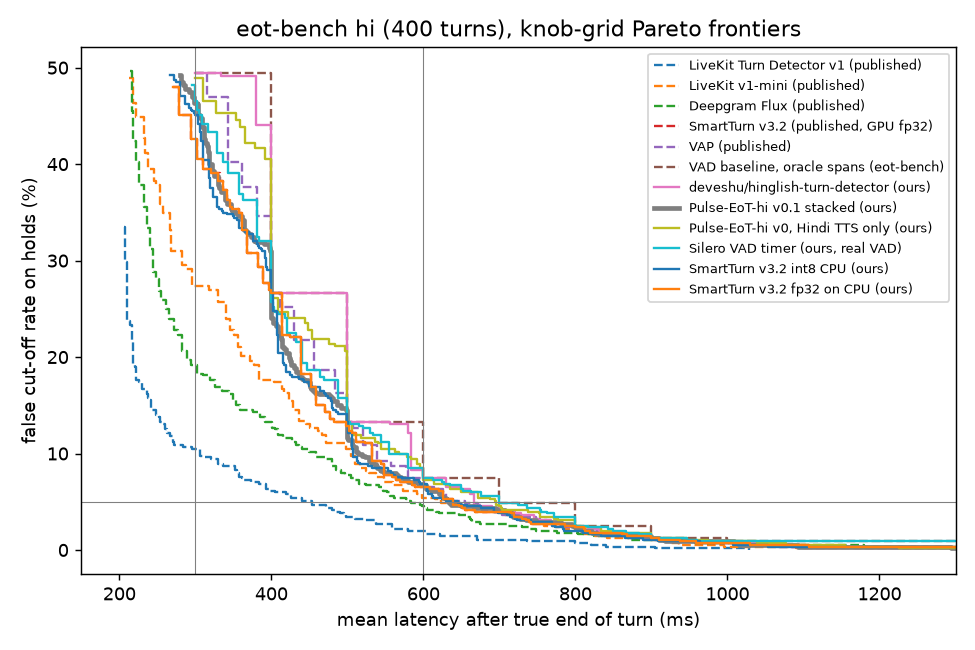
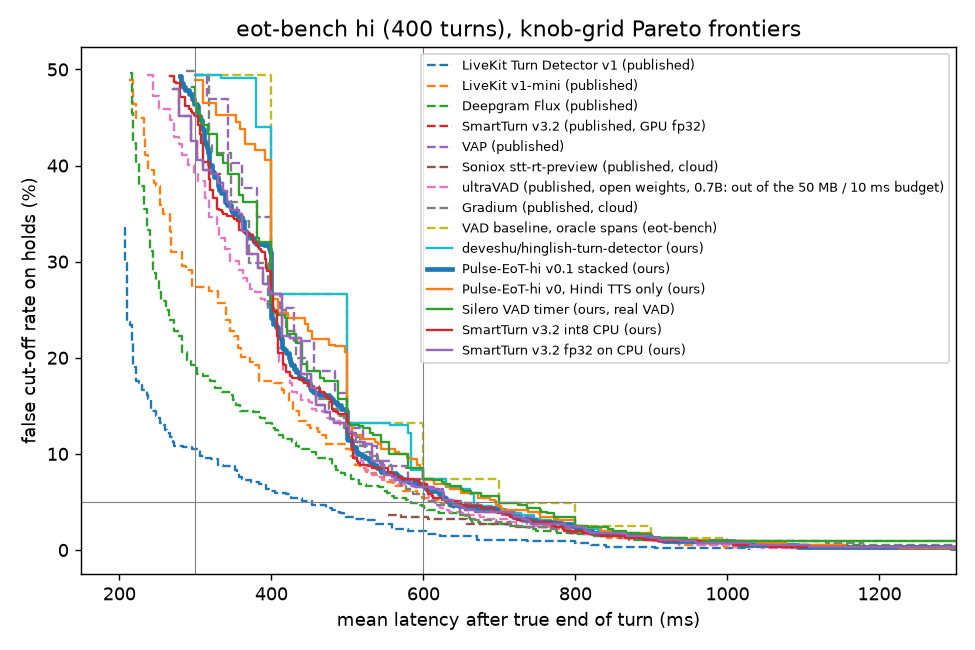
Fix B2, M6, M2 (report): relabel the arbiter as a TTS speech-vs-noise classifier, slice table at common operating points with CIs on dev-test, efficiency mean/p99 and emulation note

diff --git a/eval/report.py b/eval/report.py
@@ -118,12 +118,27 @@ def pareto_plot(rows: list[dict], path: Path, title: str) -> None:
     plt.close(fig)
 
 
+def wilson(k: int, n: int, z: float = 1.96) -> tuple[float, float]:
+    if n == 0:
+        return (float("nan"), float("nan"))
+    p = k / n
+    d = 1 + z * z / n
+    c = (p + z * z / (2 * n)) / d
+    h = z * np.sqrt(p * (1 - p) / n + z * z / (4 * n * n)) / d
+    return (max(0.0, c - h), min(1.0, c + h))
+
+
 def slice_table(dirs: list[str]) -> str:
-    """FCR on filler/connective-preceded and digit-preceded holds at each system's Lat@5% knobs.
+    """Hold cut-off rate by the word class before the pause, on the dev-test half only, with every
+    system at the same two kinds of operating point: (a) its own Lat@5% knobs and (b) its own
+    best knobs under a 600 ms mean-latency budget (the FCR@600 point). 95% Wilson intervals.
 
     Slices use the reference word before the pause (labels only, never model input).
     """
-    turns = {t.id: t for t in load_eot_bench_hi()}
+    from eval.split import ids_of
+
+    dev = ids_of("devtest")
+    turns = {t.id: t for t in load_eot_bench_hi(half="devtest")}
     keys = []
     for t in turns.values():
         for s in t.spans:
@@ -134,19 +149,32 @@ def slice_table(dirs: list[str]) -> str:
             c = token_class(toks[-1]) if toks else "NONE"
             keys.append({"id": t.id, "span_index": s.index, "slice": {"HOLD": "filler/connective", "DIGIT": "digit/number"}.get(c, "other")})
     sl = pd.DataFrame(keys)
-    lines = ["| System | knobs (th, delay, timeout) | all holds | filler/connective holds (FFCR) | digit holds |", "|---|---|---|---|---|"]
+    lines = ["| System | operating point (th, delay, timeout) | all holds | filler/connective holds | digit holds |", "|---|---|---|---|---|"]
     for d in dirs:
         p = RES / "eot_bench_hi/clean" / d
-        if not (p / "summary.json").exists():
+        if not (p / "predictions.parquet").exists():
             continue
         s = json.loads((p / "summary.json").read_text())
-        frozen = s.get("frozen_knobs") or s["operating_points"]["lat_at_5pct"]
-        src = "dev-frozen" if s.get("frozen_knobs") else "test Lat@5%"
         pred = pd.read_parquet(p / "predictions.parquet")
-        o = metrics.apply_knobs(pred, frozen, s.get("score_point")).merge(sl, on=["id", "span_index"])
-        g = o.groupby("slice")["cut"].agg(["mean", "size"])
-        cell = lambda k: f"{pct(g.loc[k, 'mean'])} (n={g.loc[k, 'size']})" if k in g.index else "-"
-        lines.append(f"| {name_of(d)} | {frozen['threshold']:.2f}, {frozen['action_delay']:.1f}, {frozen['timeout']:.1f} ({src}) | {pct(o['cut'].mean())} | {cell('filler/connective')} | {cell('digit/number')} |")
+        pred = pred[pred.id.astype(str).isin(dev)]
+        _, sd = metrics.summarise(pred, s.get("score_point"))
+        for label, key in (("own Lat@5%", "lat_at_5pct"), ("own best at <= 600 ms", "fcr_at_600ms")):
+            k = sd["operating_points"][key]
+            if k is None:
+                continue
+            o = metrics.apply_knobs(pred, k, s.get("score_point")).merge(sl, on=["id", "span_index"])
+            g = o.groupby("slice")["cut"].agg(["sum", "size"])
+
+            def cell(sub: pd.Series | None) -> str:
+                if sub is None:
+                    return "-"
+                kk, nn = int(sub["sum"]), int(sub["size"])
+                lo, hi = wilson(kk, nn)
+                return f"{pct(kk / nn)} [{pct(lo)}, {pct(hi)}] (n={nn})"
+
+            allc = pd.Series({"sum": o["cut"].sum(), "size": len(o)})
+            lines.append(f"| {name_of(d)} | {label}: {k['threshold']:.2f}, {k['action_delay']:.1f}, {k['timeout']:.1f} | {cell(allc)} | "
+                         f"{cell(g.loc['filler/connective'] if 'filler/connective' in g.index else None)} | {cell(g.loc['digit/number'] if 'digit/number' in g.index else None)} |")
     return "\n".join(lines)
 
 
@@ -193,7 +221,8 @@ def main() -> None:
     RES.mkdir(exist_ok=True)
     main_rows = [r for r in clean if "__" not in r["dir"] or r["dir"] == "pulse_eot_hi__full"]
     pareto_plot(pub + main_rows, RES / "pareto_eot_bench_hi.png", "eot-bench hi (400 turns), knob-grid Pareto frontiers")
-    md = ["# Results (generated by `python -m eval.report`)", "", "## eot-bench `hi` (400 turns, 16 kHz), eot-bench knob sweep", "",
+    md = ["# Results (generated by `python -m eval.report`)", "", "## eot-bench `hi` (all 400 turns, 16 kHz), eot-bench knob sweep: historical", "",
+          "These 400 turns informed one design iteration (v0 to v0.1) and every variant below was scored on them. Since 2026-10-20 iteration uses the 200-turn dev-test half only and the other 200 are sealed (eval/split.py). Lat@5% and FCR@300 are best-on-test operating points by eot-bench's definition; only dev-frozen knobs are deployable.", "",
           "Rows marked *published* are recomputed by our metrics code from LiveKit's committed prediction files (identical to their report). Rows marked *ours* were run in this repo through the streaming harness on CPU.", "", table(pub + clean), "", "![pareto](pareto_eot_bench_hi.png)", ""]
     for cond in ("mulaw8k", "snr10", "snr5"):
         rows = our_rows("eot_bench_hi", cond)
@@ -202,22 +231,32 @@ def main() -> None:
     dev = our_rows("dev_hi", "clean")
     if dev:
         md += ["## Dev split (Smart Turn v3.2 *test* Hindi clips as single-pause episodes; used for model selection and knob freezing)", "", table(dev), ""]
-    md += ["## Hold slices on eot-bench `hi`", "", slice_table([r["dir"] for r in clean]), ""]
+    md += ["## Hold slices, eot-bench `hi` dev-test half (200 turns)", "", "Every system at its own Lat@5% knobs and at its own best knobs within a 600 ms mean-latency budget, chosen on the same 200 turns. Brackets: 95% Wilson interval. The slices are small, so most differences are inside the intervals.", "",
+           slice_table([r["dir"] for r in clean if "__" not in r["dir"] or r["dir"] == "pulse_eot_hi__full"]), ""]
     dep = RES / "eot_bench_hi/clean/deployed.csv"
     if dep.exists():
         md += ["## Deployed (VAD-timed) policy on eot-bench `hi`", "", pd.read_csv(dep).to_markdown(index=False, floatfmt=".3f"), ""]
     arb = RES / "arbiter/summary.json"
     if arb.exists():
         a = json.loads(arb.read_text())["test"]
-        md += ["## Barge-in arbiter (proxy overlap set, see arbiter/data.py)", "", f"FBR {pct(a['FBR'])}, MBR {pct(a['MBR'])}, arbiter score {a['arbiter_score']:.3f}, reaction p50/p90 {a['reaction_p50_ms']}/{a['reaction_p90_ms']} ms, n={a['n']}", "", "Confusion (rows true, columns predicted):", "", pd.DataFrame(a["confusion"]).fillna(0).astype(int).to_markdown(), ""]
+        cm = pd.DataFrame(a["confusion"]).fillna(0).astype(int)
+        bc = int(cm.loc["backchannel", "backchannel"]) if "backchannel" in cm.index else 0
+        md += ["## Speech-onset vs noise classifier on TTS clips (the arbiter prototype; NOT a barge-in result)", "",
+               f"Trained and tested on single-speaker Chirp3 TTS Hindi clips plus MUSAN noise (arbiter/data.py). Test set: {a['n']}. "
+               f"Backchannel recall {bc}/{a['n'].get('backchannel', 0)}. \"barge-in\" is any IPU longer than 1.2 s and the model has no lexical input, "
+               "so it cannot separate \"haan\" from \"nahi ruko\". Decisions happen only at 300 or 600 ms by construction. No summary score is reported "
+               "because the class mix (91% barge-in) makes it meaningless.", "", "Confusion (rows true, columns predicted):", "", cm.to_markdown(), ""]
     for f in sorted((RES / "efficiency").glob("*.json")) if (RES / "efficiency").exists() else []:
         e = json.loads(f.read_text())
-        md += [f"- Efficiency `{e['detector']}`: p50/p95/p99 {e['ms_per_hop_p50']:.2f}/{e['ms_per_hop_p95']:.2f}/{e['ms_per_hop_p99']:.2f} ms per hop (1 thread), {e['calls_per_core']:.0f} calls per core, model {e['model_mb']:.1f} MB, {e['rss_mb_for_calls']:.0f} MB RSS for {e['concurrent_calls_held']} call states"]
+        md += [f"- Efficiency `{e['detector']}` (x86 Python emulated on {e.get('cpu', '?')}): mean/p50/p95/p99 {e['ms_per_hop_mean']:.2f}/{e['ms_per_hop_p50']:.2f}/{e['ms_per_hop_p95']:.2f}/{e['ms_per_hop_p99']:.2f} ms per hop (1 thread), {e['calls_per_core']:.0f} calls per core, model {e['model_mb']:.1f} MB, process RSS {e['rss_mb_process']:.0f} MB plus {e['rss_mb_for_calls']:.0f} MB for {e['concurrent_calls_held']} call states"]
     if (RES / "eot_bench_hi/clean/pulse_eot_hi/summary.json").exists():
         header = "# 20 failure cases, Pulse-EoT-hi v0.1 on eot-bench hi\n\n"
         (RES / "failures.md").write_text(header + failure_gallery() + "\n", encoding="utf-8")
         md += ["", "Failure gallery: [failures.md](failures.md)"]
     ours = next((r for r in clean if r["dir"] == "pulse_eot_hi"), None)
+    devmd = RES / "eot_bench_hi_devtest/rescored.md"
+    if devmd.exists():
+        md += ["", devmd.read_text(encoding="utf-8").replace("# eot-bench", "## eot-bench", 1)]
     md += ["", "## Points matrix (only rows measurable without Bharat-Turn-8k)", "", "```", json.dumps(points(ours), indent=1), "```", ""]
     (RES / "report.md").write_text("\n".join(md), encoding="utf-8")
     print("\n".join(md))

diff --git a/results/report.md b/results/report.md
@@ -1,13 +1,18 @@
 # Results (generated by `python -m eval.report`)
 
-## eot-bench `hi` (400 turns, 16 kHz), eot-bench knob sweep
+## eot-bench `hi` (all 400 turns, 16 kHz), eot-bench knob sweep: historical
+
+These 400 turns informed one design iteration (v0 to v0.1) and every variant below was scored on them. Since 2026-10-20 iteration uses the 200-turn dev-test half only and the other 200 are sealed (eval/split.py). Lat@5% and FCR@300 are best-on-test operating points by eot-bench's definition; only dev-frozen knobs are deployable.
 
 Rows marked *published* are recomputed by our metrics code from LiveKit's committed prediction files (identical to their report). Rows marked *ours* were run in this repo through the streaming harness on CPU.
 
 | System | FCR@300 | FCR@600 | Lat@5% | Lat@10% | Detect@5% | AUC |
 |---|---|---|---|---|---|---|
 | LiveKit Turn Detector v1 (published) | 10.5% | 2.0% | 454 ms | 306 ms | 68.2% | 0.944 |
+| Soniox stt-rt-preview (published, cloud) | - | 3.4% | 553 ms | 553 ms | 70.5% | 0.840 |
 | Deepgram Flux (published) | 19.2% | 4.5% | 583 ms | 459 ms | 87.5% | 0.950 |
+| ultraVAD (published, open weights, 0.7B: out of the 50 MB / 10 ms budget) | 39.1% | 6.5% | 616 ms | 509 ms | 98.2% | 0.770 |
+| Gradium (published, cloud) | 49.5% | 5.8% | 618 ms | 530 ms | 91.2% | 0.887 |
 | LiveKit v1-mini (published) | 27.4% | 5.4% | 624 ms | 505 ms | 75.2% | 0.842 |
 | Pulse-EoT-hi v0.1 stacked (ours) | 46.4% | 6.7% | 634 ms | 514 ms | 93.5% | 0.797 |
 | SmartTurn v3.2 (published, GPU fp32) | 42.6% | 6.5% | 639 ms | 532 ms | 90.2% | 0.719 |
@@ -53,24 +58,24 @@ Rows marked *published* are recomputed by our metrics code from LiveKit's commit
 | Pulse-EoT-hi v0.1 stacked (ours) | 49.5% | 7.4% | 661 ms | 551 ms | 88.2% | 0.797 |
 | Silero VAD timer (ours, real VAD) | 50.7% | 9.6% | 702 ms | 594 ms | 99.8% | 0.932 |
 
-## Hold slices on eot-bench `hi`
+## Hold slices, eot-bench `hi` dev-test half (200 turns)
 
-| System | knobs (th, delay, timeout) | all holds | filler/connective holds (FFCR) | digit holds |
+Every system at its own Lat@5% knobs and at its own best knobs within a 600 ms mean-latency budget, chosen on the same 200 turns. Brackets: 95% Wilson interval. The slices are small, so most differences are inside the intervals.
+
+| System | operating point (th, delay, timeout) | all holds | filler/connective holds | digit holds |
 |---|---|---|---|---|
-| deveshu/hinglish-turn-detector (ours) | 0.01, 0.6, 1.0 (test Lat@5%) | 4.5% | 3.2% (n=31) | 1.3% (n=78) |
-| Pulse-EoT-hi v0.1 stacked (ours) | 0.85, 0.4, 3.5 (dev-frozen) | 8.7% | 0.0% (n=31) | 1.3% (n=78) |
-| Pulse-EoT-hi v0 [audio_only] | 0.92, 0.8, 2.0 (dev-frozen) | 0.5% | 0.0% (n=31) | 1.3% (n=78) |
-| Pulse-EoT-hi v0, Hindi TTS only (ours) | 0.82, 0.4, 3.5 (dev-frozen) | 6.5% | 0.0% (n=31) | 0.0% (n=78) |
-| Pulse-EoT-hi v0 [no_DIGIT] | 0.87, 0.4, 2.5 (dev-frozen) | 5.3% | 0.0% (n=31) | 0.0% (n=78) |
-| Pulse-EoT-hi v0 [no_HOLD] | 0.85, 0.4, 2.5 (dev-frozen) | 5.4% | 0.0% (n=31) | 0.0% (n=78) |
-| Pulse-EoT-hi v0 [no_lexhead] | 0.89, 0.4, 2.5 (dev-frozen) | 5.4% | 0.0% (n=31) | 0.0% (n=78) |
-| Pulse-EoT-hi v0 [no_TAG] | 0.86, 0.4, 2.5 (dev-frozen) | 5.4% | 0.0% (n=31) | 0.0% (n=78) |
-| Pulse-EoT-hi v0 [no_VERB] | 0.94, 0.2, 2.0 (dev-frozen) | 5.8% | 0.0% (n=31) | 1.3% (n=78) |
-| Pulse-EoT-hi v0.1 [smart_turn_only] | 0.89, 0.3, 3.0 (dev-frozen) | 14.5% | 9.7% (n=31) | 3.8% (n=78) |
-| Pulse-EoT-hi v0.1 [stacked_audio_only] | 0.94, 0.2, 2.5 (dev-frozen) | 15.2% | 12.9% (n=31) | 3.8% (n=78) |
-| Silero VAD timer (ours, real VAD) | 0.10, 0.7, 1.0 (test Lat@5%) | 4.9% | 6.5% (n=31) | 2.6% (n=78) |
-| SmartTurn v3.2 int8 CPU (ours) | 0.33, 0.6, 1.0 (test Lat@5%) | 4.9% | 3.2% (n=31) | 1.3% (n=78) |
-| SmartTurn v3.2 fp32 on CPU (ours) | 0.04, 0.6, 1.0 (test Lat@5%) | 4.7% | 3.2% (n=31) | 1.3% (n=78) |
+| deveshu/hinglish-turn-detector (ours) | own Lat@5%: 0.03, 0.5, 1.0 | 4.8% [2.8%, 8.3%] (n=248) | 0.0% [0.0%, 16.1%] (n=20) | 3.1% [0.6%, 15.7%] (n=32) |
+| deveshu/hinglish-turn-detector (ours) | own best at <= 600 ms: 0.00, 0.6, 1.0 | 6.5% [4.0%, 10.2%] (n=248) | 5.0% [0.9%, 23.6%] (n=20) | 3.1% [0.6%, 15.7%] (n=32) |
+| Pulse-EoT-hi v0.1 stacked (ours) | own Lat@5%: 0.18, 0.6, 1.5 | 4.8% [2.8%, 8.3%] (n=248) | 0.0% [0.0%, 16.1%] (n=20) | 3.1% [0.6%, 15.7%] (n=32) |
+| Pulse-EoT-hi v0.1 stacked (ours) | own best at <= 600 ms: 0.63, 0.5, 1.0 | 5.2% [3.1%, 8.8%] (n=248) | 0.0% [0.0%, 16.1%] (n=20) | 3.1% [0.6%, 15.7%] (n=32) |
+| Pulse-EoT-hi v0, Hindi TTS only (ours) | own Lat@5%: 0.08, 0.6, 1.0 | 4.8% [2.8%, 8.3%] (n=248) | 0.0% [0.0%, 16.1%] (n=20) | 3.1% [0.6%, 15.7%] (n=32) |
+| Pulse-EoT-hi v0, Hindi TTS only (ours) | own best at <= 600 ms: 0.01, 0.6, 1.0 | 6.0% [3.7%, 9.7%] (n=248) | 0.0% [0.0%, 16.1%] (n=20) | 3.1% [0.6%, 15.7%] (n=32) |
+| Silero VAD timer (ours, real VAD) | own Lat@5%: 0.35, 0.2, 1.0 | 4.8% [2.8%, 8.3%] (n=248) | 5.0% [0.9%, 23.6%] (n=20) | 3.1% [0.6%, 15.7%] (n=32) |
+| Silero VAD timer (ours, real VAD) | own best at <= 600 ms: 0.10, 0.6, 1.0 | 6.5% [4.0%, 10.2%] (n=248) | 5.0% [0.9%, 23.6%] (n=20) | 3.1% [0.6%, 15.7%] (n=32) |
+| SmartTurn v3.2 int8 CPU (ours) | own Lat@5%: 0.77, 0.5, 1.0 | 4.8% [2.8%, 8.3%] (n=248) | 0.0% [0.0%, 16.1%] (n=20) | 3.1% [0.6%, 15.7%] (n=32) |
+| SmartTurn v3.2 int8 CPU (ours) | own best at <= 600 ms: 0.70, 0.5, 1.0 | 5.2% [3.1%, 8.8%] (n=248) | 0.0% [0.0%, 16.1%] (n=20) | 3.1% [0.6%, 15.7%] (n=32) |
+| SmartTurn v3.2 fp32 on CPU (ours) | own Lat@5%: 0.02, 0.6, 1.0 | 4.4% [2.5%, 7.8%] (n=248) | 0.0% [0.0%, 16.1%] (n=20) | 3.1% [0.6%, 15.7%] (n=32) |
+| SmartTurn v3.2 fp32 on CPU (ours) | own best at <= 600 ms: 0.11, 0.5, 1.0 | 5.2% [3.1%, 8.8%] (n=248) | 0.0% [0.0%, 16.1%] (n=20) | 3.1% [0.6%, 15.7%] (n=32) |
 
 ## Deployed (VAD-timed) policy on eot-bench `hi`
 
@@ -89,9 +94,9 @@ Rows marked *published* are recomputed by our metrics code from LiveKit's commit
 | Pulse-EoT-hi v0.1, dev-frozen knobs                           |       0.850 |          0.400 |     3.500 | 0.103 |          1.107 |         3.500 |                    0.043 |
 | Pulse-EoT-hi v0.1, test Lat@5% knobs (oracle, reference only) |       0.410 |          0.600 |     1.000 | 0.047 |          0.625 |         0.810 |                    0.065 |
 
-## Barge-in arbiter (proxy overlap set, see arbiter/data.py)
+## Speech-onset vs noise classifier on TTS clips (the arbiter prototype; NOT a barge-in result)
 
-FBR 18.1%, MBR 0.8%, arbiter score 0.905, reaction p50/p90 300.0/300.0 ms, n={'barge_in': 1464, 'noise': 134, 'backchannel': 15}
+Trained and tested on single-speaker Chirp3 TTS Hindi clips plus MUSAN noise (arbiter/data.py). Test set: {'barge_in': 1464, 'noise': 134, 'backchannel': 15}. Backchannel recall 2/15. "barge-in" is any IPU longer than 1.2 s and the model has no lexical input, so it cannot separate "haan" from "nahi ruko". Decisions happen only at 300 or 600 ms by construction. No summary score is reported because the class mix (91% barge-in) makes it meaningless.
 
 Confusion (rows true, columns predicted):
 
@@ -101,10 +106,39 @@ Confusion (rows true, columns predicted):
 | barge_in    |             2 |       1459 |       3 |
 | noise       |             2 |         14 |     118 |
 
-- Efficiency `pulse_eot_hi`: p50/p95/p99 2.22/8.02/401.31 ms per hop (1 thread), 7 calls per core, model 10.6 MB, 113 MB RSS for 50 call states
-- Efficiency `pulse_eot_hi:full`: p50/p95/p99 2.02/3.53/7.88 ms per hop (1 thread), 44 calls per core, model 2.3 MB, 111 MB RSS for 50 call states
+- Efficiency `pulse_eot_hi` (x86 Python emulated on ARMv8 (64-bit) Family 8 Model 2 Revision 201, Qualcomm Technologies Inc): mean/p50/p95/p99 13.44/2.22/8.02/401.31 ms per hop (1 thread), 7 calls per core, model 10.6 MB, process RSS 622 MB plus 113 MB for 50 call states
+- Efficiency `pulse_eot_hi:full` (x86 Python emulated on ARMv8 (64-bit) Family 8 Model 2 Revision 201, Qualcomm Technologies Inc): mean/p50/p95/p99 2.29/2.02/3.53/7.88 ms per hop (1 thread), 44 calls per core, model 2.3 MB, process RSS 660 MB plus 111 MB for 50 call states
 
 Failure gallery: [failures.md](failures.md)
+
+## eot-bench `hi` dev-test half (200 turns), rescored from saved predictions
+
+Generated by `python -m eval.rescore_devtest`. Same metric code and knob grid as eot-bench. The sealed 200-turn half is not scored here (eval/split.py).
+
+| System | FCR@300 | FCR@600 | Lat@5% | Lat@10% | n holds / EoTs |
+|---|---|---|---|---|---|
+| LiveKit Turn Detector v1 (published) | 8.5% | 1.2% | 384 ms | 284 ms | 248 / 200 |
+| LiveKit v1-mini (published) | 24.6% | 4.8% | 550 ms | 469 ms | 248 / 200 |
+| Deepgram Flux (published) | 18.5% | 3.6% | 552 ms | 431 ms | 248 / 200 |
+| Soniox stt-rt-preview (published, cloud) | - | 2.8% | 554 ms | 554 ms | 248 / 200 |
+| ultraVAD (published, open weights, 0.7B: out of the 50 MB / 10 ms budget) | 39.9% | 4.8% | 600 ms | 496 ms | 248 / 200 |
+| VAP (published) | 50.8% | 5.2% | 601 ms | 520 ms | 248 / 200 |
+| SmartTurn v3.2 int8 CPU (ours) | 37.1% | 5.2% | 602 ms | 507 ms | 248 / 200 |
+| Gradium (published, cloud) | 48.8% | 5.6% | 604 ms | 541 ms | 248 / 200 |
+| Pulse-EoT-hi v0.1 stacked (ours) | 43.5% | 5.2% | 611 ms | 500 ms | 248 / 200 |
+| deveshu/hinglish-turn-detector (ours) | 50.8% | 6.5% | 612 ms | 535 ms | 248 / 200 |
+| SmartTurn v3.2 (published, GPU fp32) | 37.1% | 5.2% | 624 ms | 481 ms | 248 / 200 |
+| SmartTurn v3.2 fp32 on CPU (ours) | 37.1% | 5.2% | 624 ms | 481 ms | 248 / 200 |
+| Pulse-EoT-hi v0, Hindi TTS only (ours) | 49.6% | 6.0% | 647 ms | 510 ms | 248 / 200 |
+| Silero VAD timer (ours, real VAD) | 48.4% | 6.5% | 741 ms | 563 ms | 248 / 200 |
+
+Deployable rows (knobs frozen on the dev clips, never chosen on eot-bench):
+
+- Pulse-EoT-hi v0.1 stacked (ours): FCR 5.6% at mean latency 1156 ms (th 0.85, delay 0.4 s, timeout 3.5 s)
+- Pulse-EoT-hi v0, Hindi TTS only (ours): FCR 3.2% at mean latency 2388 ms (th 0.82, delay 0.4 s, timeout 3.5 s)
+
+Paired bootstrap over 200 dev-test turns (1000 resamples), v0.1 minus Smart Turn v3.2 fp32, each at its own Lat@5% knobs: latency -12.5 ms (95% CI -30.0 to +6.5), FCR +0.40 pp (95% CI -1.38 to +2.12).
+
 
 ## Points matrix (only rows measurable without Bharat-Turn-8k)
 
